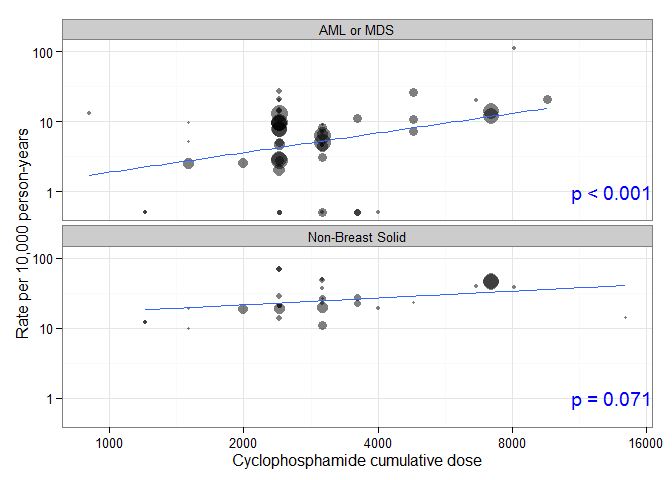
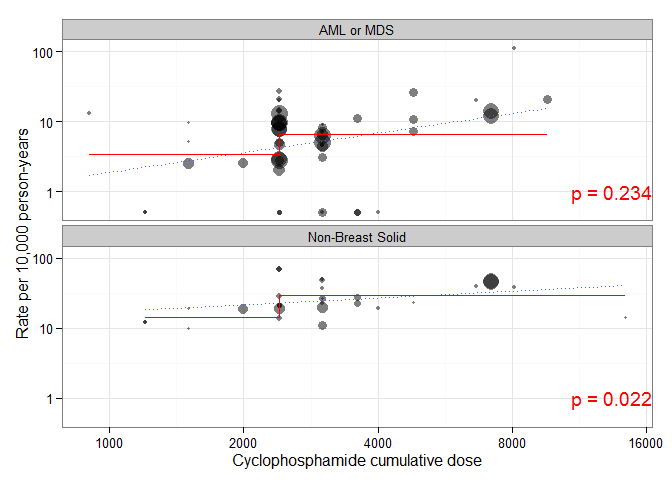
Dichotomize the cumulative dose moderator (issue #29)

diff --git a/metaregSecMal.html b/metaregSecMal.html
@@ -69,7 +69,7 @@ img {
 <div id="header">
 <h1 class="title">Secondary Malignancies</h1>
 <h4 class="author"><em><a href="http://careers.stackoverflow.com/benjaminchan">Benjamin Chan</a></em></h4>
-<h4 class="date"><em>2016-05-31 13:15:20</em></h4>
+<h4 class="date"><em>2016-05-31 14:04:46</em></h4>
 </div>
 
 <div id="TOC">
@@ -258,18 +258,18 @@ D &lt;- D[, malAMLOrMDSTotal := malAMLOrMDSTotal]
 D &lt;- D[is.na(malAML) &amp; is.na(malMDS) &amp; is.na(malAMLOrMDS), malAMLOrMDSTotal := NA]
 D[s, .(rowid, malAML, malMDS, malAMLOrMDS, malAMLOrMDSTotal)]</code></pre>
 <pre><code>##     rowid malAML malMDS malAMLOrMDS malAMLOrMDSTotal
-##  1:    83     NA     NA           5                5
-##  2:    78     NA     NA          NA               NA
-##  3:    95      0     NA          NA                0
-##  4:    90     NA     NA          NA               NA
-##  5:    89     NA     NA          NA               NA
-##  6:    52      1      1          NA                2
-##  7:    59      9      4          NA               13
-##  8:    34      0      1          NA                1
-##  9:    27     NA     NA          NA               NA
+##  1:    97     NA     NA          NA               NA
+##  2:    86     NA     NA           5                5
+##  3:    39      0     NA          NA                0
+##  4:    75      0      0          NA                0
+##  5:    87     NA     NA           8                8
+##  6:    45     NA     NA           0                0
+##  7:    63     NA     NA          NA               NA
+##  8:    77     NA     NA          NA               NA
+##  9:    88     NA     NA          11               11
 ## 10:    38      1     NA          NA                1
-## 11:    49     NA     NA          NA               NA
-## 12:    73     NA     NA           2                2</code></pre>
+## 11:    59      9      4          NA               13
+## 12:    20      0      0          NA                0</code></pre>
 <p>Remove text from <code>nITT</code> column.</p>
 <pre class="r"><code>D &lt;- D[authorYear == &quot;Misset (1996)&quot; &amp; arm == 2, nITT := &quot;137&quot;]
 D &lt;- D[authorYear == &quot;Fumoleu (2003)&quot; &amp; arm == 1, nITT := &quot;210&quot;]
@@ -1299,7 +1299,7 @@ write.table(summaryRegimens,
 <pre class="r"><code>metareg &lt;- function (D) {
   require(metafor)
   D &lt;- D[!(is.na(x) | is.na(rate) | is.na(nITT) | is.na(malType))]
-  M &lt;- rma.glmm(xi = malN, ti = py, mods = log10(x), measure=&quot;IRLN&quot;, data=D)
+  M &lt;- rma.glmm(xi = malN, ti = py, mods = xHighDose, measure=&quot;IRLN&quot;, data=D)
   pvalue &lt;- M$pval[which(row.names(M$b) == &quot;mods&quot;)]
   if (pvalue &lt; 0.001) {
     pvalue &lt;- &quot;p &lt; 0.001&quot;
@@ -1309,17 +1309,22 @@ write.table(summaryRegimens,
   list(rma.glmm = M,
        pvalue = pvalue)
 }
-plotreg &lt;- function (D, xlab, xbreaks, text) {
+plotreg &lt;- function (D, xlab, xbreaks, text, yhat) {
   require(ggplot2)
   require(tools)
   D &lt;- D[!(is.na(x) | is.na(rate) | is.na(nITT) | is.na(malType))]
   D &lt;- D[malType %in% c(&quot;AML or MDS&quot;, &quot;Non-Breast Solid&quot;)]
   D &lt;- D[, malType := droplevels(malType)]
+  steps &lt;- merge(D[, .(min = min(x), max = max(x)), .(malType, xHighDose)],
+                 yhat,
+                 by=c(&quot;malType&quot;, &quot;xHighDose&quot;))
+  steps &lt;- melt(steps, id.vars=c(&quot;malType&quot;, &quot;xHighDose&quot;, &quot;yhat&quot;), measure.vars=c(&quot;min&quot;, &quot;max&quot;), value.name=&quot;x&quot;)
   G &lt;- ggplot(D, aes(x=x, y=rate + 1/2, size=nITT / min(nITT, na.rm=TRUE), group=malType))
   G &lt;- G + geom_point(alpha=1/2)
-  G &lt;- G + geom_smooth(method=&quot;lm&quot;, se=FALSE)
+  G &lt;- G + geom_smooth(method=&quot;lm&quot;, se=FALSE, linetype=&quot;dotted&quot;)
+  G &lt;- G + geom_step(data=steps, aes(x=x, y=yhat, group=malType), inherit.aes=FALSE, color=&quot;red&quot;)
   G &lt;- G + geom_text(data=data.frame(x=Inf, y=1, label=text, malType=levels(D[, malType])),
-                     aes(x, y, label=label, group=malType), inherit.aes=FALSE, hjust=1, color=&quot;blue&quot;)
+                     aes(x, y, label=label, group=malType), inherit.aes=FALSE, hjust=1, color=&quot;red&quot;)
   G &lt;- G + scale_x_log10(xlab, breaks=xbreaks)
   G &lt;- G + scale_y_log10(&quot;Rate per 10,000 person-years&quot;)
   G &lt;- G + facet_wrap(~ malType, nrow=2, ncol=1)
@@ -1330,9 +1335,17 @@ plotreg &lt;- function (D, xlab, xbreaks, text) {
   write.csv(D, file=sprintf(&quot;%s.csv&quot;, filename), row.names=FALSE)
   show(file.info(c(sprintf(&quot;%s.png&quot;, filename), sprintf(&quot;%s.csv&quot;, filename)))[c(&quot;size&quot;, &quot;mtime&quot;)])
   G
+}
+invLogit &lt;- function (x) {
+  exp(x) / (1 + exp(x))
 }</code></pre>
 <div id="cyclophosphamide" class="section level2">
 <h2><span class="header-section-number">4.1</span> Cyclophosphamide</h2>
+<p>Dichotomoize cumulative dose</p>
+<ul>
+<li><span class="math inline">\(\le 2400\)</span></li>
+<li><span class="math inline">\(\gt 2400\)</span></li>
+</ul>
 <pre class="r"><code>library(metafor)</code></pre>
 <pre><code>## Loading required package: Matrix
 ## Loading 'metafor' package (version 1.9-8). For an overview 
@@ -1342,6 +1355,7 @@ plotreg &lt;- function (D, xlab, xbreaks, text) {
            authorYear,
            isCyclo,
            x = cyclophosphamideCumulDose,
+           xHighDose = cyclophosphamideCumulDose &gt;= 2400,
            nITT,
            medianFU,
            malType,
@@ -1351,14 +1365,21 @@ plotreg &lt;- function (D, xlab, xbreaks, text) {
 M1 &lt;- metareg(D2[malType == &quot;AML or MDS&quot;      ])
 M2 &lt;- metareg(D2[malType == &quot;Non-Breast Solid&quot;])
 pvalues &lt;- c(M1$pvalue, M2$pvalue)
-plotreg(D2, &quot;Cyclophosphamide cumulative dose&quot;, 1000 * c(0.5, 1, 2, 4, 8, 16), pvalues)</code></pre>
+yhat1 &lt;- unique(data.table(malType = &quot;AML or MDS&quot;,
+                           xHighDose = as.logical(M1$rma.glmm$X[, &quot;mods&quot;]),
+                           yhat = invLogit(predict(M1$rma.glmm)[[&quot;pred&quot;]]) * 10000))
+yhat2 &lt;- unique(data.table(malType = &quot;Non-Breast Solid&quot;,
+                           xHighDose = as.logical(M2$rma.glmm$X[, &quot;mods&quot;]),
+                           yhat = invLogit(predict(M2$rma.glmm)[[&quot;pred&quot;]]) * 10000))
+yhat &lt;- rbind(yhat1, yhat2)
+plotreg(D2, &quot;Cyclophosphamide cumulative dose&quot;, 1000 * c(0.5, 1, 2, 4, 8, 16), pvalues, yhat)</code></pre>
 <pre><code>## Loading required package: ggplot2
 ## Loading required package: tools
 ## Saving 7 x 5 in image</code></pre>
 <pre><code>##                                     size               mtime
-## CyclophosphamideCumulativeDose.png 43644 2016-05-31 13:15:24
-## CyclophosphamideCumulativeDose.csv  6822 2016-05-31 13:15:24</code></pre>
[1 lines of base64/hex data omitted]
+## CyclophosphamideCumulativeDose.png 52922 2016-05-31 14:04:50
+## CyclophosphamideCumulativeDose.csv  7241 2016-05-31 14:04:50</code></pre>
[1 lines of base64/hex data omitted]
 </div>
 <div id="anthracycline" class="section level2">
 <h2><span class="header-section-number">4.2</span> Anthracycline</h2>
@@ -1378,11 +1399,6 @@ M1 &lt;- metareg(D2[malType == &quot;AML or MDS&quot;      ])
 M2 &lt;- metareg(D2[malType == &quot;Non-Breast Solid&quot;])
 pvalues &lt;- c(M1$pvalue, M2$pvalue)
 plotreg(D2, &quot;Anthracycline cumulative dose&quot;, 100 * c(1, 2, 4, 8), pvalues)</code></pre>
-<pre><code>## Saving 7 x 5 in image</code></pre>
-<pre><code>##                                  size               mtime
-## AnthracyclineCumulativeDose.png 41946 2016-05-31 13:15:25
-## AnthracyclineCumulativeDose.csv  7552 2016-05-31 13:15:25</code></pre>
[1 lines of base64/hex data omitted]
 </div>
 <div id="taxane" class="section level2">
 <h2><span class="header-section-number">4.3</span> Taxane</h2>
@@ -1402,11 +1418,6 @@ M1 &lt;- metareg(D2[malType == &quot;AML or MDS&quot;      ])
 M2 &lt;- metareg(D2[malType == &quot;Non-Breast Solid&quot;])
 pvalues &lt;- c(M1$pvalue, M2$pvalue)
 plotreg(D2, &quot;Taxane cumulative dose&quot;, 100 * c(1, 2, 4, 8), pvalues)</code></pre>
-<pre><code>## Saving 7 x 5 in image</code></pre>
-<pre><code>##                           size               mtime
-## TaxaneCumulativeDose.png 36670 2016-05-31 13:15:26
-## TaxaneCumulativeDose.csv  2479 2016-05-31 13:15:26</code></pre>
[1 lines of base64/hex data omitted]
 </div>
 <div id="fluoroucil" class="section level2">
 <h2><span class="header-section-number">4.4</span> Fluoroucil</h2>
@@ -1426,11 +1437,6 @@ M1 &lt;- metareg(D2[malType == &quot;AML or MDS&quot;      ])
 M2 &lt;- metareg(D2[malType == &quot;Non-Breast Solid&quot;])
 pvalues &lt;- c(M1$pvalue, M2$pvalue)
 plotreg(D2, &quot;Fluoroucil cumulative dose&quot;, 1000 * c(0.5, 1, 2, 4, 8, 16), pvalues)</code></pre>
-<pre><code>## Saving 7 x 5 in image</code></pre>
-<pre><code>##                               size               mtime
-## FluoroucilCumulativeDose.png 41358 2016-05-31 13:15:28
-## FluoroucilCumulativeDose.csv  2750 2016-05-31 13:15:28</code></pre>
[1 lines of base64/hex data omitted]
 </div>
 </div>
 <div id="more-stuff-im-not-sure-i-need" class="section level1">

diff --git a/metaregSecMal.md b/metaregSecMal.md
@@ -247,18 +247,18 @@ D[s, .(rowid, malAML, malMDS, malAMLOrMDS, malAMLOrMDSTotal)]
 
 ```
 ##     rowid malAML malMDS malAMLOrMDS malAMLOrMDSTotal
-##  1:    83     NA     NA           5                5
-##  2:    78     NA     NA          NA               NA
-##  3:    95      0     NA          NA                0
-##  4:    90     NA     NA          NA               NA
-##  5:    89     NA     NA          NA               NA
-##  6:    52      1      1          NA                2
-##  7:    59      9      4          NA               13
-##  8:    34      0      1          NA                1
-##  9:    27     NA     NA          NA               NA
+##  1:    97     NA     NA          NA               NA
+##  2:    86     NA     NA           5                5
+##  3:    39      0     NA          NA                0
+##  4:    75      0      0          NA                0
+##  5:    87     NA     NA           8                8
+##  6:    45     NA     NA           0                0
+##  7:    63     NA     NA          NA               NA
+##  8:    77     NA     NA          NA               NA
+##  9:    88     NA     NA          11               11
 ## 10:    38      1     NA          NA                1
-## 11:    49     NA     NA          NA               NA
-## 12:    73     NA     NA           2                2
+## 11:    59      9      4          NA               13
+## 12:    20      0      0          NA                0
 ```
 
 Remove text from `nITT` column.
@@ -1370,7 +1370,7 @@ Define meta-regression functions.
 metareg <- function (D) {
   require(metafor)
   D <- D[!(is.na(x) | is.na(rate) | is.na(nITT) | is.na(malType))]
-  M <- rma.glmm(xi = malN, ti = py, mods = log10(x), measure="IRLN", data=D)
+  M <- rma.glmm(xi = malN, ti = py, mods = xHighDose, measure="IRLN", data=D)
   pvalue <- M$pval[which(row.names(M$b) == "mods")]
   if (pvalue < 0.001) {
     pvalue <- "p < 0.001"
@@ -1380,17 +1380,22 @@ metareg <- function (D) {
   list(rma.glmm = M,
        pvalue = pvalue)
 }
-plotreg <- function (D, xlab, xbreaks, text) {
+plotreg <- function (D, xlab, xbreaks, text, yhat) {
   require(ggplot2)
   require(tools)
   D <- D[!(is.na(x) | is.na(rate) | is.na(nITT) | is.na(malType))]
   D <- D[malType %in% c("AML or MDS", "Non-Breast Solid")]
   D <- D[, malType := droplevels(malType)]
+  steps <- merge(D[, .(min = min(x), max = max(x)), .(malType, xHighDose)],
+                 yhat,
+                 by=c("malType", "xHighDose"))
+  steps <- melt(steps, id.vars=c("malType", "xHighDose", "yhat"), measure.vars=c("min", "max"), value.name="x")
   G <- ggplot(D, aes(x=x, y=rate + 1/2, size=nITT / min(nITT, na.rm=TRUE), group=malType))
   G <- G + geom_point(alpha=1/2)
-  G <- G + geom_smooth(method="lm", se=FALSE)
+  G <- G + geom_smooth(method="lm", se=FALSE, linetype="dotted")
+  G <- G + geom_step(data=steps, aes(x=x, y=yhat, group=malType), inherit.aes=FALSE, color="red")
   G <- G + geom_text(data=data.frame(x=Inf, y=1, label=text, malType=levels(D[, malType])),
-                     aes(x, y, label=label, group=malType), inherit.aes=FALSE, hjust=1, color="blue")
+                     aes(x, y, label=label, group=malType), inherit.aes=FALSE, hjust=1, color="red")
   G <- G + scale_x_log10(xlab, breaks=xbreaks)
   G <- G + scale_y_log10("Rate per 10,000 person-years")
   G <- G + facet_wrap(~ malType, nrow=2, ncol=1)
@@ -1402,9 +1407,17 @@ plotreg <- function (D, xlab, xbreaks, text) {
   show(file.info(c(sprintf("%s.png", filename), sprintf("%s.csv", filename)))[c("size", "mtime")])
   G
 }
+invLogit <- function (x) {
+  exp(x) / (1 + exp(x))
+}
 ```
 
 ## Cyclophosphamide
+
+Dichotomoize cumulative dose
+
+* $\le 2400$
+* $\gt 2400$
 
 
 ```r
@@ -1423,6 +1436,7 @@ D2 <- D1[isCyclo == TRUE,
            authorYear,
            isCyclo,
            x = cyclophosphamideCumulDose,
+           xHighDose = cyclophosphamideCumulDose >= 2400,
            nITT,
            medianFU,
            malType,
@@ -1432,7 +1446,14 @@ D2 <- D1[isCyclo == TRUE,
 M1 <- metareg(D2[malType == "AML or MDS"      ])
 M2 <- metareg(D2[malType == "Non-Breast Solid"])
 pvalues <- c(M1$pvalue, M2$pvalue)
-plotreg(D2, "Cyclophosphamide cumulative dose", 1000 * c(0.5, 1, 2, 4, 8, 16), pvalues)
+yhat1 <- unique(data.table(malType = "AML or MDS",
+                           xHighDose = as.logical(M1$rma.glmm$X[, "mods"]),
+                           yhat = invLogit(predict(M1$rma.glmm)[["pred"]]) * 10000))
+yhat2 <- unique(data.table(malType = "Non-Breast Solid",
+                           xHighDose = as.logical(M2$rma.glmm$X[, "mods"]),
+                           yhat = invLogit(predict(M2$rma.glmm)[["pred"]]) * 10000))
+yhat <- rbind(yhat1, yhat2)
+plotreg(D2, "Cyclophosphamide cumulative dose", 1000 * c(0.5, 1, 2, 4, 8, 16), pvalues, yhat)
 ```
 
 ```
@@ -1443,8 +1464,8 @@ plotreg(D2, "Cyclophosphamide cumulative dose", 1000 * c(0.5, 1, 2, 4, 8, 16), p
 
 ```
 ##                                     size               mtime
-## CyclophosphamideCumulativeDose.png 43644 2016-05-31 13:15:24
-## CyclophosphamideCumulativeDose.csv  6822 2016-05-31 13:15:24
+## CyclophosphamideCumulativeDose.png 52922 2016-05-31 14:04:50
+## CyclophosphamideCumulativeDose.csv  7241 2016-05-31 14:04:50
 ```
 
 ![](metaregSecMal_files/figure-html/unnamed-chunk-16-1.png) 
@@ -1472,18 +1493,6 @@ pvalues <- c(M1$pvalue, M2$pvalue)
 plotreg(D2, "Anthracycline cumulative dose", 100 * c(1, 2, 4, 8), pvalues)
 ```
 
-```
-## Saving 7 x 5 in image
-```
-
-```
-##                                  size               mtime
-## AnthracyclineCumulativeDose.png 41946 2016-05-31 13:15:25
-## AnthracyclineCumulativeDose.csv  7552 2016-05-31 13:15:25
-```
-
-![](metaregSecMal_files/figure-html/unnamed-chunk-17-1.png) 
-
 
 ## Taxane
 
@@ -1507,18 +1516,6 @@ pvalues <- c(M1$pvalue, M2$pvalue)
 plotreg(D2, "Taxane cumulative dose", 100 * c(1, 2, 4, 8), pvalues)
 ```
 
-```
-## Saving 7 x 5 in image
-```
-
-```
-##                           size               mtime
-## TaxaneCumulativeDose.png 36670 2016-05-31 13:15:26
-## TaxaneCumulativeDose.csv  2479 2016-05-31 13:15:26
-```
-
-![](metaregSecMal_files/figure-html/unnamed-chunk-18-1.png) 
-
 
 ## Fluoroucil
 
@@ -1541,18 +1538,6 @@ M2 <- metareg(D2[malType == "Non-Breast Solid"])
 pvalues <- c(M1$pvalue, M2$pvalue)
 plotreg(D2, "Fluoroucil cumulative dose", 1000 * c(0.5, 1, 2, 4, 8, 16), pvalues)
 ```
-
-```
-## Saving 7 x 5 in image
-```
-
-```
-##                               size               mtime
-## FluoroucilCumulativeDose.png 41358 2016-05-31 13:15:28
-## FluoroucilCumulativeDose.csv  2750 2016-05-31 13:15:28
-```
-
-![](metaregSecMal_files/figure-html/unnamed-chunk-19-1.png) 
 
 
 
